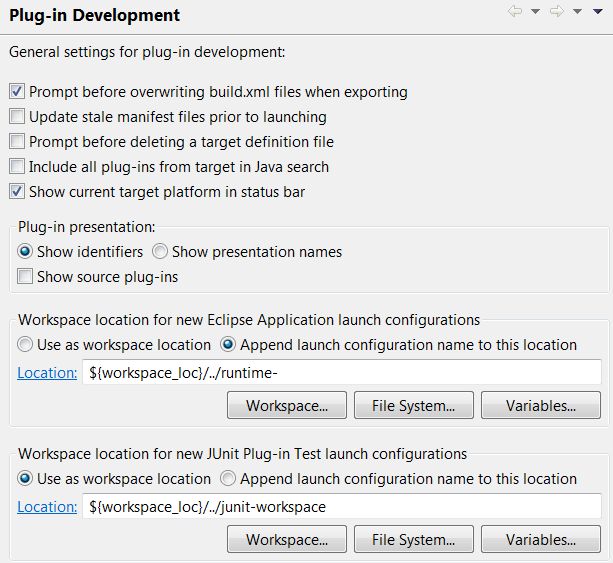
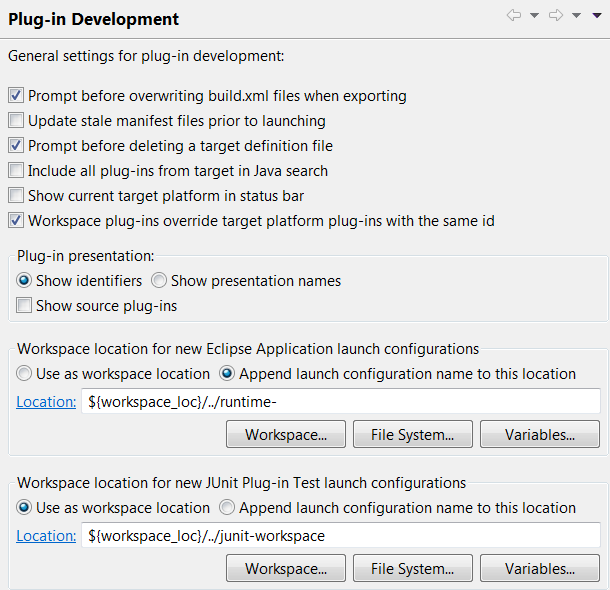
Bug 509159 - Missing F1 help for: Workspace p&lug-ins override target platform plug-ins with the same id

diff --git a/bundles/org.eclipse.pde.doc.user/guide/tools/preference_pages/plug_in_development.htm b/bundles/org.eclipse.pde.doc.user/guide/tools/preference_pages/plug_in_development.htm
@@ -34,6 +34,10 @@ When selected, adds a new item to the window status bar displaying the name of t
 </p>
 <p><img src="../../images/preferences/target_statusbar.png" alt="Target platform status line item" ></p>  
 
+<p><strong>Workspace plug-ins override target platform plug-ins with the same id</strong> - 
+When selected, workspace plug-ins override target platform plug-ins. If one or more versions of a plug-in is open in the workspace, then all plug-ins with the same plug-in id get removed from the target platform. When this option is off, all plug-in versions from workspace and target platform are being used.
+</p>
+
 <h2>Plug-in presentation</h2>
 <p>By default, whenever a plug-in or a feature is presented in the UI (i.e. in the outline view, Plug-ins view, editors, etc.), the label shows the plug-in or feature ID followed by the plug-in or feature version. </p>
 <p>The <strong>Plug-in presentation</strong> preference is a global setting that allows you to show an alternate label for plug-ins and features composed of the (translated) name of the plug-in or feature followed by the plug-in or feature version. Source plug-in are filtered from views by default.  Selecting <strong>Show source plug-ins</strong> will make them visible in the UI.</p>
